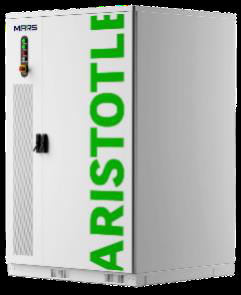
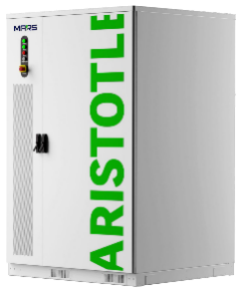
assets: real brand + product photos in the PDF
- New high-res SamSam logo (cover + headers)
- Zonneklaar partner logo on the cover (dark chip so the white logo shows)
- Real battery photos in the comparison (Huawei/FoxEss/Mars/Mars-big) via catalog
- SamSam installation photo on the partner page
- Partner/referentie logos (Hezelaer, EddyGrid, Repowered, EP NL) on the kwaliteit page

Changed region(s): [[0.0, 0.0, 1.0, 1.0], [0.1162, 0.4271, 0.2324, 0.5492]]

diff --git a/src/components/proposal/proposal-document.tsx b/src/components/proposal/proposal-document.tsx
@@ -99,11 +99,17 @@ export function ProposalDocument({
         <div className="cust">{c.naam}</div>
         <div className="subject">{c.onderwerp}</div>
         <div className="zk">
-          <div className="s">In samenwerking met</div>
-          <div className="z">
-            {s.company.partner}
-            <b> ⚡</b>
-          </div>
+          {/* eslint-disable-next-line @next/next/no-img-element */}
+          <img
+            src="/brand/zonneklaar.png"
+            alt="In samenwerking met Zonneklaar"
+            style={{
+              width: "52mm",
+              background: "#2b2f36",
+              padding: "10px 14px",
+              borderRadius: 10,
+            }}
+          />
         </div>
       </section>
 
@@ -169,6 +175,12 @@ export function ProposalDocument({
           &lsquo;one stop shop&rsquo; voor duurzame energieoplossingen. Van advies tot installatie, van
           subsidieaanvraag tot onderhoud — wij staan aan uw zijde in elke stap.
         </p>
+        {/* eslint-disable-next-line @next/next/no-img-element */}
+        <img
+          src="/brand/installatie.png"
+          alt="SamSam installatie"
+          style={{ width: "100%", height: "42mm", objectFit: "cover", borderRadius: 12, margin: "4px 0" }}
+        />
         <div className="three-ico">
           {fix.partner.map((p, i) => (
             <div className="it" key={i}>
@@ -196,6 +208,25 @@ export function ProposalDocument({
         <div className="sidebox">{fix.kwaliteitBox}</div>
         <h3 style={{ marginTop: 18 }}>Meer dan 1000 groot-zakelijke projecten</h3>
         <p>{fix.duizend}</p>
+        <div style={{ marginTop: 8 }}>
+          <div
+            style={{
+              fontSize: 10.5,
+              color: "var(--grey)",
+              marginBottom: 8,
+              textTransform: "uppercase",
+              letterSpacing: ".5px",
+            }}
+          >
+            Onze partners &amp; referenties
+          </div>
+          <div style={{ display: "flex", alignItems: "center", gap: 20, flexWrap: "wrap" }}>
+            {["partner-hezelaer", "partner-eddygrid", "partner-repowered", "partner-epnl"].map((p) => (
+              // eslint-disable-next-line @next/next/no-img-element
+              <img key={p} src={`/brand/${p}.png`} alt="" style={{ height: "11mm", objectFit: "contain" }} />
+            ))}
+          </div>
+        </div>
       </section>
 
       {/* 5 — Comparison */}

diff --git a/src/lib/content/seed-data.ts b/src/lib/content/seed-data.ts
@@ -76,7 +76,7 @@ export const SEED_BATTERIES: SeedBattery[] = [
     type: "Fox G-Max 215",
     prijs: 37950,
     prijsInvest: 38350,
-    photoUrl: "/brand/bat-fox.png",
+    photoUrl: "/brand/bat-foxess.png",
     specs: {
       cooling: "Liquid",
       capaciteit: "215kWh",
@@ -163,15 +163,20 @@ function catalogSpecs(merk: string, type: string, vermogen: string, capaciteit: 
   };
 }
 
+const HUAWEI = "/brand/bat-huawei.png";
+const FOXESS = "/brand/bat-foxess.png";
+const MARS = "/brand/bat-mars.png";
+const MARS_BIG = "/brand/bat-generic.png";
+
 const REAL_BATTERIES = [
-  { merk: "Huawei", vermogen: "108", capaciteit: "215kWh" },
-  { merk: "Huawei", vermogen: "108", capaciteit: "241kWh" },
-  { merk: "FoxEss", vermogen: "100", capaciteit: "215kWh" },
-  { merk: "Mars", vermogen: "30", capaciteit: "100kWh" },
-  { merk: "Mars", vermogen: "50", capaciteit: "100kWh" },
-  { merk: "Mars", vermogen: "125", capaciteit: "261kWh" },
-  { merk: "Mars", vermogen: "250", capaciteit: "1023kWh" },
-  { merk: "Mars", vermogen: "500", capaciteit: "1013kWh" },
+  { merk: "Huawei", vermogen: "108", capaciteit: "215kWh", photoUrl: HUAWEI },
+  { merk: "Huawei", vermogen: "108", capaciteit: "241kWh", photoUrl: HUAWEI },
+  { merk: "FoxEss", vermogen: "100", capaciteit: "215kWh", photoUrl: FOXESS },
+  { merk: "Mars", vermogen: "30", capaciteit: "100kWh", photoUrl: MARS },
+  { merk: "Mars", vermogen: "50", capaciteit: "100kWh", photoUrl: MARS },
+  { merk: "Mars", vermogen: "125", capaciteit: "261kWh", photoUrl: MARS },
+  { merk: "Mars", vermogen: "250", capaciteit: "1023kWh", photoUrl: MARS_BIG },
+  { merk: "Mars", vermogen: "500", capaciteit: "1013kWh", photoUrl: MARS_BIG },
 ];
 
 const REAL_CHARGERS = [
@@ -187,6 +192,7 @@ export const SEED_CATALOG: SeedProduct[] = [
     margin: DEFAULT_MARGIN,
     unit: "st",
     specs: catalogSpecs(b.merk, `${b.vermogen}kW - ${b.capaciteit}`, b.vermogen, b.capaciteit),
+    photoUrl: b.photoUrl,
   })),
   { name: "Transportkosten en afval", category: "work", costPrice: costFromSell(eur(SEED_INVESTERING.transport), DEFAULT_MARGIN), margin: DEFAULT_MARGIN, unit: "st" },
   { name: "ROEF verhogingsbalken", category: "work", costPrice: costFromSell(eur(SEED_INVESTERING.roef), DEFAULT_MARGIN), margin: DEFAULT_MARGIN, unit: "st" },